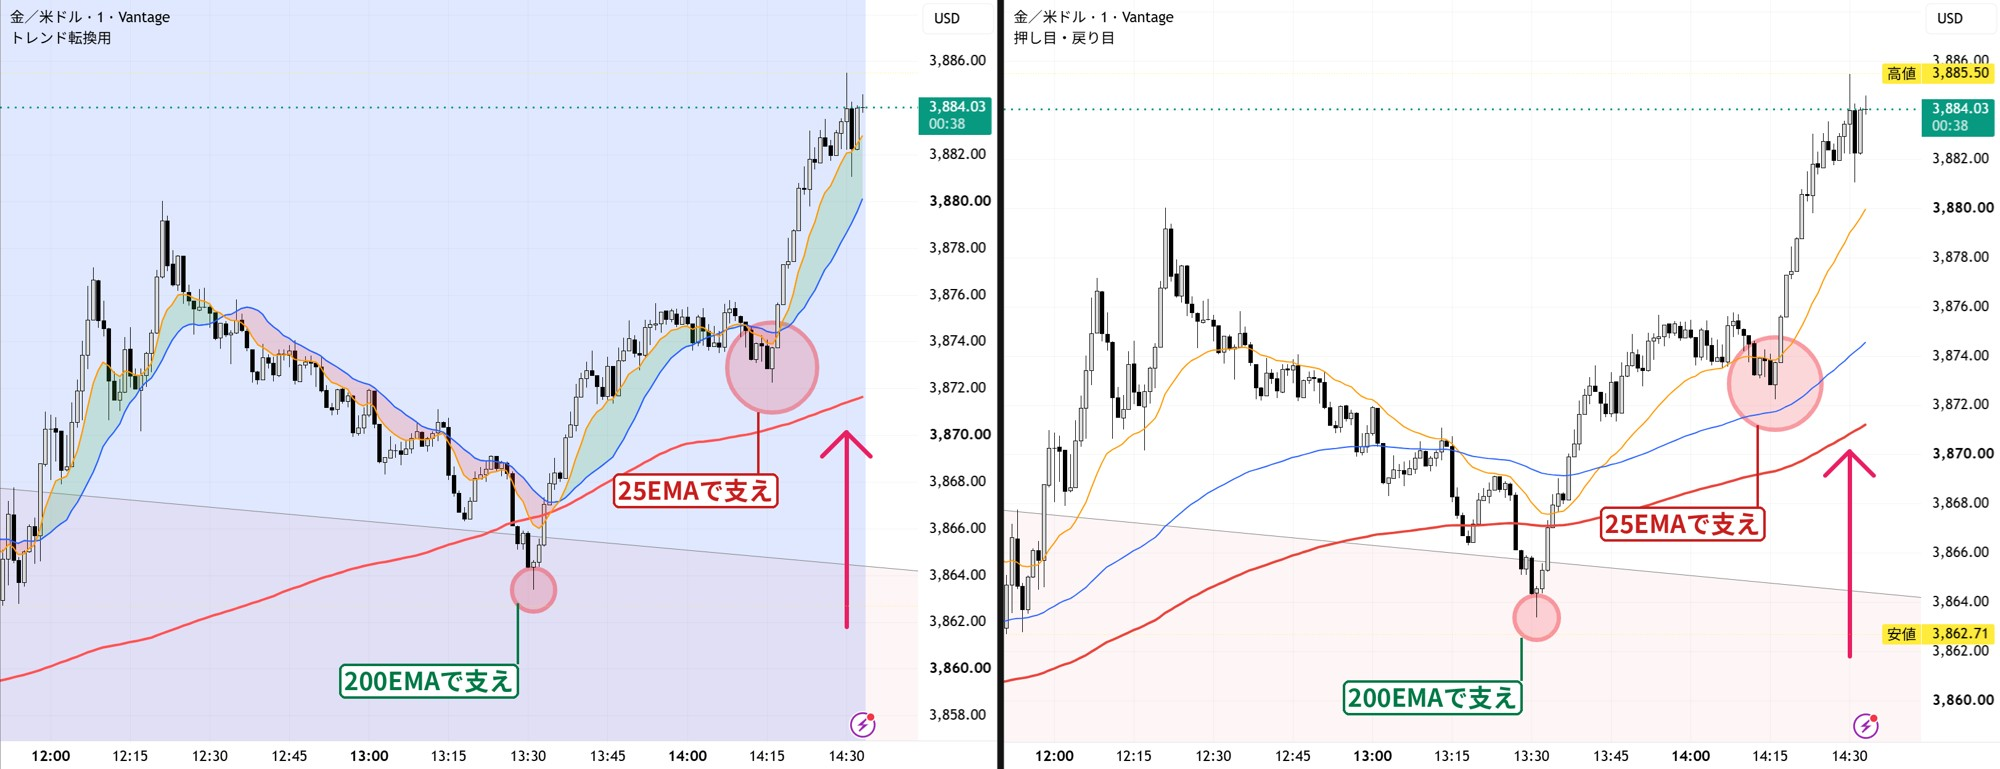
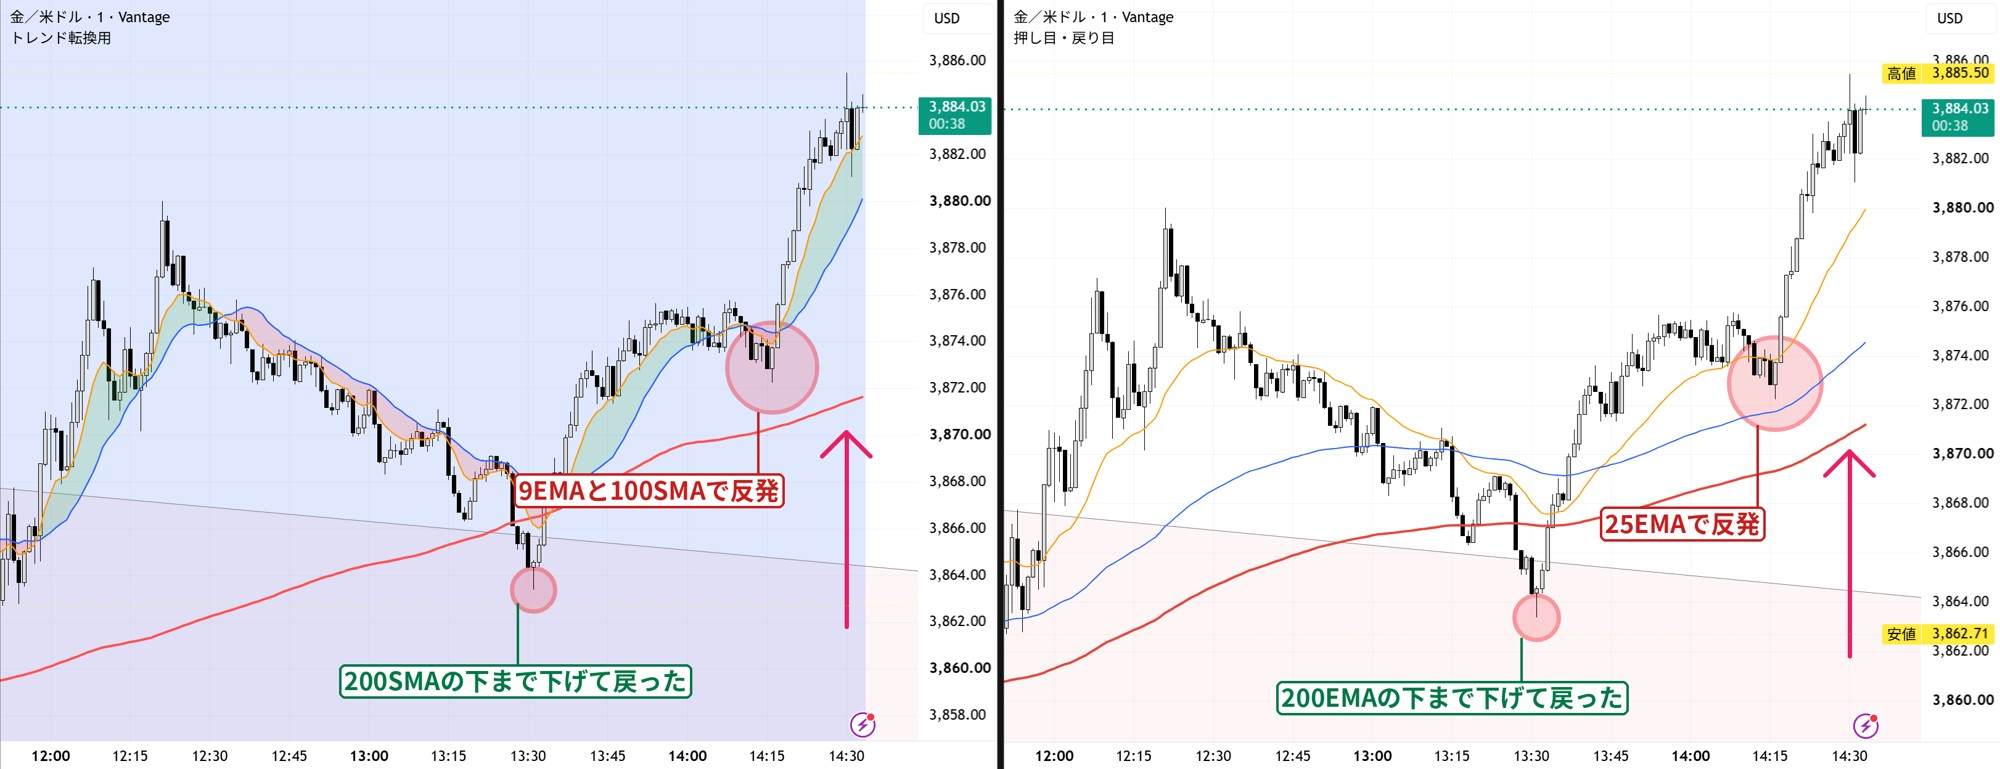
例17: 図の書き込みと文章を訂正（MAの名前、支えと言えない所）
Claude-Session: https://claude.ai/code/session_01HxS9YaEfLR2yPnioVsHz63

diff --git a/reversal.html b/reversal.html
@@ -80,27 +80,26 @@ body.lb-open { overflow: hidden; }
   </header>
 
   <section class="card big">
-    <h2>例17：上位足でも支えられたロング</h2>
+    <h2>例17：下から戻ったロング</h2>
     <h3 class="part first">1分足</h3>
     <figure class="pic wide">
-      <a href="methods/rev-up-1m.jpg"><img src="methods/rev-up-1m.jpg" alt="1分足。左の◎は200EMAで支え、右の丸は25EMAで支え" loading="lazy"></a>
+      <a href="methods/rev-up-1m.jpg"><img src="methods/rev-up-1m.jpg" alt="1分足。左の◎と右の丸" loading="lazy"></a>
     </figure>
     <h3 class="part">2分足</h3>
     <figure class="pic wide">
-      <a href="methods/rev-up-2m.jpg"><img src="methods/rev-up-2m.jpg" alt="2分足。左の◎は200EMAで支え、右の丸は25EMAで支え" loading="lazy"></a>
+      <a href="methods/rev-up-2m.jpg"><img src="methods/rev-up-2m.jpg" alt="2分足。左の◎と右の丸" loading="lazy"></a>
     </figure>
     <h3 class="part">5分足</h3>
     <figure class="pic wide">
-      <a href="methods/rev-up-5m.jpg"><img src="methods/rev-up-5m.jpg" alt="5分足。左の◎は200EMAで支え、右の丸は25EMAで支え" loading="lazy"></a>
+      <a href="methods/rev-up-5m.jpg"><img src="methods/rev-up-5m.jpg" alt="5分足。左の◎と右の丸" loading="lazy"></a>
     </figure>
     <h3 class="part">15分足</h3>
     <figure class="pic wide">
-      <a href="methods/rev-up-15m.jpg"><img src="methods/rev-up-15m.jpg" alt="15分足。左の◎は100EMAで支え、右の丸は25EMAで支え" loading="lazy"></a>
+      <a href="methods/rev-up-15m.jpg"><img src="methods/rev-up-15m.jpg" alt="15分足。左の◎と右の丸" loading="lazy"></a>
     </figure>
     <ul class="cap3">
-      <li><b>左の◎：200EMAで支えられた。</b>上位足（2分・5分・15分）でも、支えられている。</li>
-      <li><b>右の丸：25EMAで支えられた。</b>上位足でも、支えられている。</li>
-      <li><b>上位足でも支えられているので、ロングで入りやすい。</b></li>
+      <li><b>1分足・2分足・5分足：</b>左の◎は、200の線の近くまで下げて反発。右の丸は、25EMAで反発（左のチャートは、9EMAと100SMA）。</li>
+      <li><b>15分足：</b>25EMAと100EMAの下まで下げて戻った。支えられた、とは言えない。</li>
     </ul>
   </section>
 
@@ -131,7 +130,7 @@ body.lb-open { overflow: hidden; }
     </ul>
     <h3 class="part">上位足（15分足）</h3>
     <figure class="pic wide">
-      <a href="methods/rev-15m-support.jpg"><img src="methods/rev-15m-support.jpg" alt="15分足。左の縦線が例11、右の縦線が例16。例16は25EMAに支えられている" loading="lazy"></a>
+      <a href="methods/rev-15m-support.jpg"><img src="methods/rev-15m-support.jpg" alt="15分足。左の◎と右の丸" loading="lazy"></a>
     </figure>
     <ul class="cap3">
       <li><b>上位足の15分足で、25EMAに支えられている。</b>縦線の所は、ショートをやめておくべき所だった。</li>
@@ -202,7 +201,7 @@ body.lb-open { overflow: hidden; }
     <h2>例12：見送って正解だったロング</h2>
     <h3 class="part first">① 1分足：ロングしようと思った</h3>
     <figure class="pic wide">
-      <a href="methods/rev-skip-1m.jpg"><img src="methods/rev-skip-1m.jpg" alt="1分足。25EMAが200EMAを上に抜けて、押し目の25EMA付近でロングしようと思った（赤い四角）" loading="lazy"></a>
+      <a href="methods/rev-skip-1m.jpg"><img src="methods/rev-skip-1m.jpg" alt="1分足。左の◎と右の丸" loading="lazy"></a>
     </figure>
     <ul class="dots">
       <li>右側のMAで、25EMAが200EMAを突き抜けた。</li>
@@ -212,7 +211,7 @@ body.lb-open { overflow: hidden; }
     </ul>
     <h3 class="part">② 2分足：下向きの200SMAに抑えられている</h3>
     <figure class="pic wide">
-      <a href="methods/rev-skip-2m.jpg"><img src="methods/rev-skip-2m.jpg" alt="2分足。同じ場所（赤い四角）は、下向きの200SMAに抑えられている" loading="lazy"></a>
+      <a href="methods/rev-skip-2m.jpg"><img src="methods/rev-skip-2m.jpg" alt="2分足。左の◎と右の丸" loading="lazy"></a>
     </figure>
     <ul class="dots">
       <li>左側のMAを見ると、下向きの200SMAに抑えられていた。</li>
